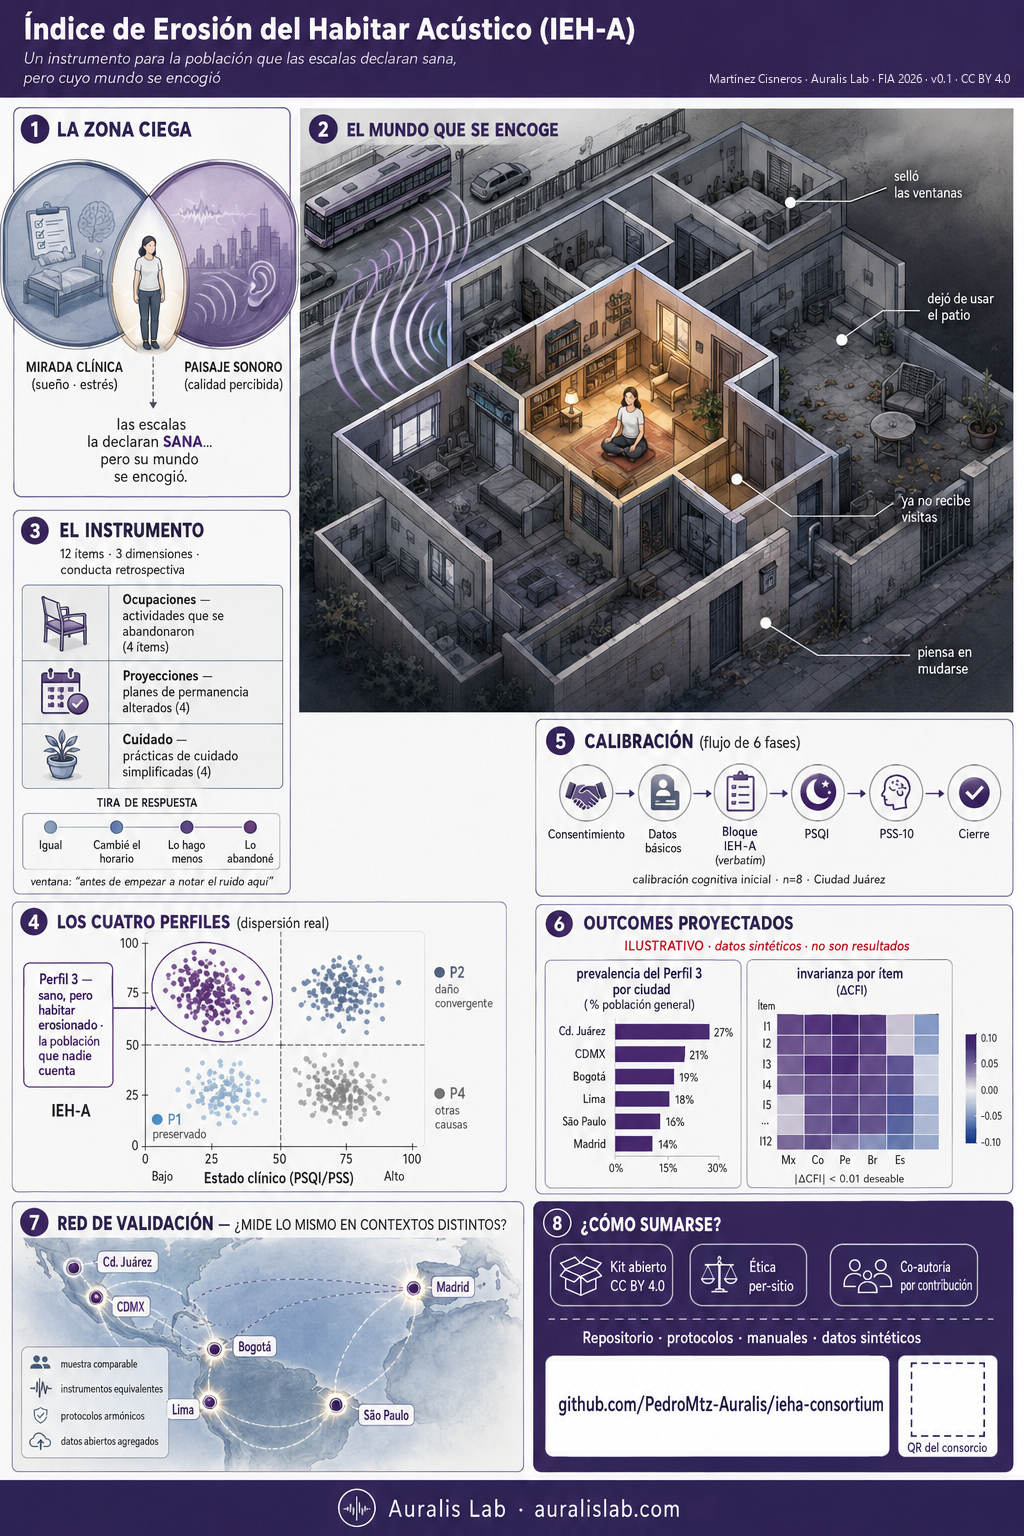
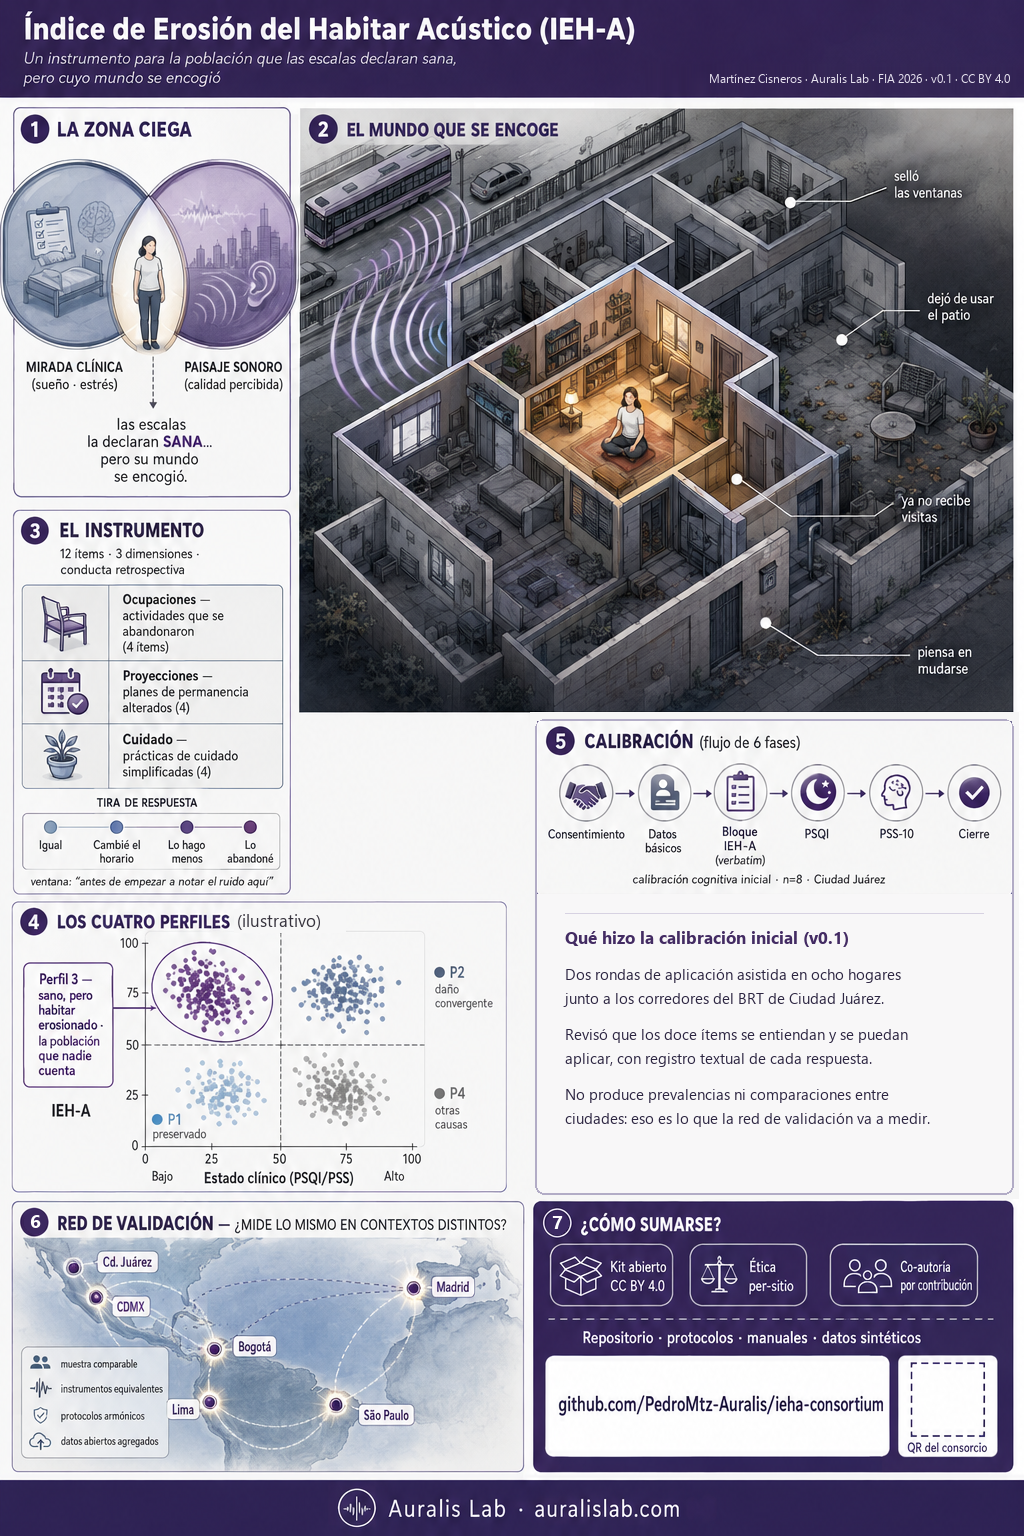
outreach: lámina sin el panel de outcomes proyectados; perfiles rotulados como ilustrativos
Se retira el panel 6 (prevalencias por ciudad e invarianza por ítem, sintéticos),
se renumeran los paneles y la calibración explica qué hizo la v0.1 y qué no.

Changed region(s): [[0.5312, 0.5938, 0.9688, 0.7812], [0.2188, 0.5938, 0.3125, 0.625]]

diff --git a/outreach/lamina_resumen/README.md b/outreach/lamina_resumen/README.md
@@ -10,16 +10,15 @@ Material complementario al manuscrito FIA 2026 · Consorcio IEH-A · Auralis Lab
 
 ## Cómo leer la lámina
 
-La pieza recorre el argumento completo del instrumento en ocho módulos:
+La pieza recorre el argumento completo del instrumento en siete módulos:
 
 1. **La zona ciega** — entre la mirada clínica (sueño, estrés) y el paisaje sonoro (calidad percibida) queda un habitante al que las escalas declaran **sano**, pero cuyo mundo se encogió.
 2. **El mundo que se encoge** — la metáfora-ancla: el entorno acústico recorta lo que una persona todavía hace, va y disfruta (selló ventanas, dejó de usar el patio, ya no recibe visitas, piensa en mudarse).
 3. **El instrumento** — 12 ítems · 3 dimensiones (Ocupaciones, Proyecciones, Cuidado) · conducta retrospectiva, no autoevaluación.
-4. **Los cuatro perfiles** — al cruzar estado clínico (PSQI/PSS) con IEH-A, emerge el **Perfil 3: clínicamente sano, habitar erosionado** — *la población que nadie cuenta*.
-5. **Calibración** — el flujo de fases del levantamiento (consentimiento → datos básicos → bloque IEH-A → PSQI → PSS-10 → cierre).
-6. **Outcomes proyectados** — prevalencia del Perfil 3 e invarianza por ítem.
-7. **Red de validación** — la pregunta que solo una red iberoamericana puede responder: *¿mide lo mismo en contextos distintos?*
-8. **Cómo sumarse** — kit abierto (CC BY 4.0) · ética per-sitio · coautoría por contribución · `github.com/PedroMtz-Auralis/ieha-consortium`.
+4. **Los cuatro perfiles** (ilustrativo) — al cruzar estado clínico (PSQI/PSS) con IEH-A, emerge el **Perfil 3: clínicamente sano, habitar erosionado** — *la población que nadie cuenta*.
+5. **Calibración** — el flujo de fases del levantamiento (consentimiento → datos básicos → bloque IEH-A → PSQI → PSS-10 → cierre) y lo que hizo la calibración inicial v0.1: dos rondas de aplicación asistida en ocho hogares, revisión de comprensión y operatividad de los ítems; no produce prevalencias ni comparaciones entre ciudades.
+6. **Red de validación** — la pregunta que solo una red iberoamericana puede responder: *¿mide lo mismo en contextos distintos?*
+7. **Cómo sumarse** — kit abierto (CC BY 4.0) · ética per-sitio · coautoría por contribución · `github.com/PedroMtz-Auralis/ieha-consortium`.
 
 El gancho que une todo: **"clínicamente sano, mundo encogido"** (el Perfil 3).
 
@@ -27,7 +26,7 @@ El gancho que une todo: **"clínicamente sano, mundo encogido"** (el Perfil 3).
 
 ## Guardrails (lectura obligatoria)
 
-- Los **outcomes** mostrados en la lámina (prevalencia del Perfil 3, invarianza por ítem) son **datos sintéticos rotulados "ILUSTRATIVO"** — coherentes con [`../projected_outcomes/`](../projected_outcomes/). **No son resultados** y no deben citarse como hallazgos.
+- La lámina **no muestra resultados**. La dispersión del panel 4 es **ilustrativa** (sintética) y solo explica la lógica de los cuatro perfiles. La versión del 2-nov-2026 retiró el panel de outcomes proyectados.
 - Encuadre: **consorcio fundado y coordinado por P. Martínez Cisneros** (Auralis Lab); el artículo de FIA 2026 que presentó el instrumento es de Martínez Cisneros y Sánchez Flores.
 - La calibración inicial reportada corresponde al **pretest cognitivo de Auralis Lab** (v0.1); la validación distribuida es, precisamente, lo que el consorcio convoca.
 
